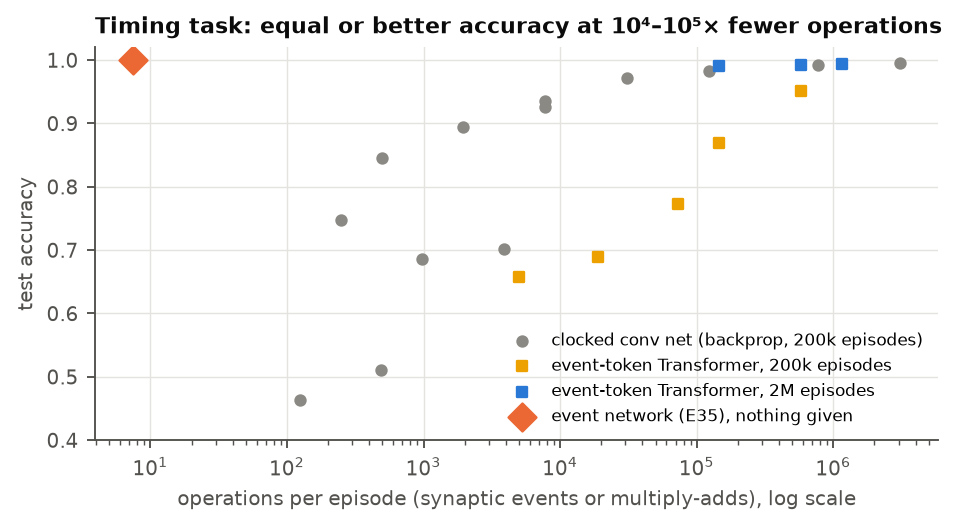
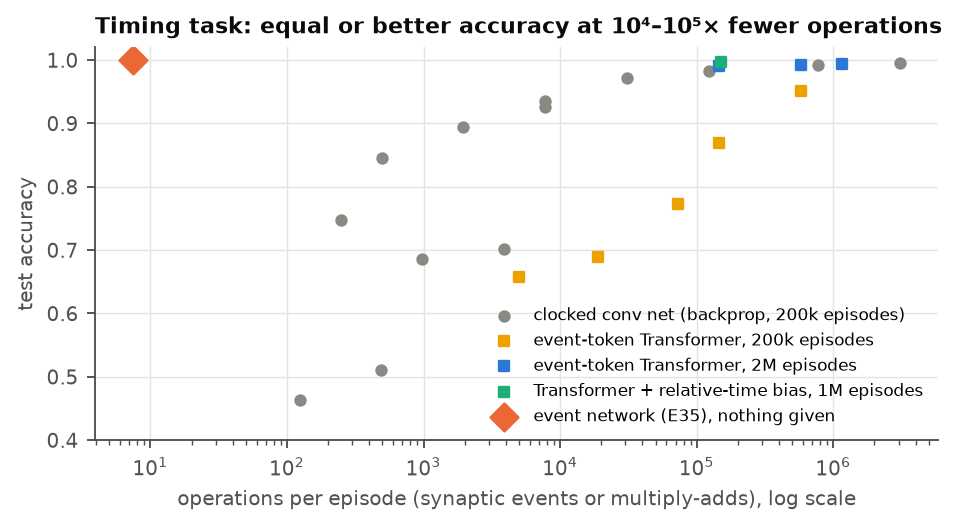
E36f: relative-time-attention Transformer on the timing task, 1M episodes: 0.996/0.998 at ~150k MACs (event network 1.000 at 7.5 events); frontier figure, tables, report and PDF

Changed region(s): [[0.5141, 0.5769, 0.9677, 0.8197], [0.7258, 0.0911, 0.756, 0.1214]]

diff --git a/report/make_pdf.py b/report/make_pdf.py
@@ -310,9 +310,11 @@ def fig_e32():
         long = "long" in path or "rel" in path
         for r in load(path)["rows"]:
             tf.setdefault((long, r["d"], r["layers"], r.get("reltime", 0)), []).append((r["acc"], r["macs_per_episode"]))
-    for long, col, name in ((False, YELLOW, "event-token Transformer, 200k episodes"),
-                            (True, BLUE, "event-token Transformer, 2M episodes")):
-        v = [(np.mean([m for _, m in vv]), np.mean([a for a, _ in vv])) for k, vv in tf.items() if k[0] == long]
+    for long, rel, col, name in ((False, 0, YELLOW, "event-token Transformer, 200k episodes"),
+                                 (True, 0, BLUE, "event-token Transformer, 2M episodes"),
+                                 (True, 1, AQUA, "Transformer + relative-time bias, 1M episodes")):
+        v = [(np.mean([m for _, m in vv]), np.mean([a for a, _ in vv])) for k, vv in tf.items()
+             if k[0] == long and k[3] == rel]
         if v:
             ax.scatter(*zip(*v), color=col, s=18, marker="s", label=name, zorder=3)
     ax.scatter([7.5], [1.0], color=ORANGE, s=70, marker="D", label="event network (E35), nothing given", zorder=4)
@@ -916,6 +918,7 @@ def build():
                  ["<b>event network, nothing given (E35)</b>", "<b>1.000 ×4, 0.9995</b>", "<b>7.5 synaptic events</b>",
                   "443–1,530 updates, 200k episodes"],
                  ["event-token Transformer, 2M episodes", "0.989–0.996", "146k–1.16M MACs", "backprop"],
+                 ["Transformer + relative-time bias, 1M episodes", "0.996, 0.998", "≈ 150k MACs", "backprop"],
                  ["event-token Transformer, 200k episodes", "0.65–0.97", "5k–576k MACs", "backprop"],
                  ["clocked conv net (E32)", "0.995 / 0.984 / 0.895", "3.07M / 123k / 1.9k MACs", "backprop, 200k"]],
                 [56, 36, 42, 40], st)]
@@ -928,8 +931,9 @@ def build():
             "of its input events (§70). The clocked model also pays per time bin, so silence multiplies its cost; a conv "
             "net evaluated only where spikes are would cost ≈ 100 multiply-adds, not millions (§63). At published "
             "per-operation energies the gap at equal accuracy is ≈ 10⁴×. <i>Limits:</i> one task built around the "
-            "primitives; the Transformer needed 10× more training for parity; a relative-time-attention Transformer "
-            "is being run.")]
+            "primitives; the Transformer needed 10× more training for parity; with a learned relative-time attention bias "
+            "(time differences enter attention directly) it reaches 0.996–0.998 at ≈ 150k MACs, still below the event "
+            "network at ≈ 2·10⁴× its cost.")]
     s.append(PageBreak())
 
     s += [P("4. Depth and composition", "h1"),
@@ -1008,7 +1012,6 @@ def build():
     s += bullets([
         "Grokking theory tests (running): phase diagram over data × sleep (§72); relations the rhythm cannot express; sleep "
         "as the pressure toward reusable parts (§73); O(log N) learning as the candidate basis grows (§74).",
-        "Fair baselines (running): relative-time-attention Transformers; the chains with 5–25× more training.",
         "Composition accuracy against Transformers; grokking reliability; native learning of sparse parity (§75, open); "
         "a real stream with rare, precisely timed events (§55).",
     ], st)

diff --git a/REPORT.md b/REPORT.md
@@ -136,6 +136,7 @@ the conv net):
 |---|---|---|---|
 | **event network, nothing given (E35)** | **1.000 ×4, 0.9995** | **7.5 synaptic events** | 443–1,530 local updates, 200k episodes |
 | event-token Transformer, 2M episodes (E36) | 0.989–0.996 | 146k–1.16M multiply-adds | backprop |
+| Transformer with learned relative-time attention bias, 1M episodes (E36f) | 0.996, 0.998 | 149k–150k multiply-adds | backprop |
 | event-token Transformer, 200k episodes | 0.65–0.97 | 5k–576k | backprop |
 | clocked conv net (E32) | 0.995 / 0.984 / 0.895 | 3.07M / 123k / 1.9k | backprop, 200k episodes |
 
@@ -149,8 +150,9 @@ per time bin; 99% silence multiplies its cost by 100), and a conv net evaluated 
 on Loihi, ≈ 10 pJ per multiply-add with its weight read) gives ≈ 10⁴× at equal accuracy.
 
 **Limits.** One task, designed around the primitives; the dense search covered a grid of sizes. The Transformer
-needed 10× more training to reach parity; a Transformer with a learned relative-time attention bias, the fair
-strengthening, is being run.
+needed 10× more training to reach parity. Giving it a learned relative-time attention bias (the fair strengthening:
+time differences enter attention directly) brings it to 0.996–0.998 at ≈ 150k multiply-adds after 1M episodes,
+still below the event network and ≈ 2·10⁴× its cost.
 
 **Scaling with the size of the input basis (E35, §74, §77).** With the spikes per episode held fixed, widening the
 candidate inputs from 12 to 96 channels leaves accuracy at ≈ 1.0 (96 channels: 1.000, 0.999, 1.000) and the number of
@@ -349,7 +351,6 @@ prices) do not transfer to its weights (SHD 0.04–0.29 vs 0.35).
 - **The data threshold of grokking** is far above the Occam bound (E41: between 7% and 30% of triples at p = 17, not
   a few percent; not a matter of training time). The sleep reuse filter (§72: each shared delay is reused ≈ n/p times)
   is the candidate constraint; untested.
-- **Fair baselines (running):** relative-time-attention Transformers; the chains with 5–25× more training.
 - **Composition accuracy** against Transformers, and **grokking reliability** (the failing seed).
 - **Native learning of sparse parity** with toggle nodes: representable by one node, learnability open (§75).
 - **A real benchmark where the paradigm should win:** streams with rare, precisely timed events (§55), and a
